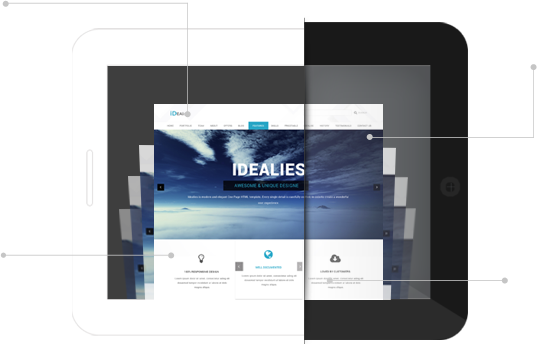
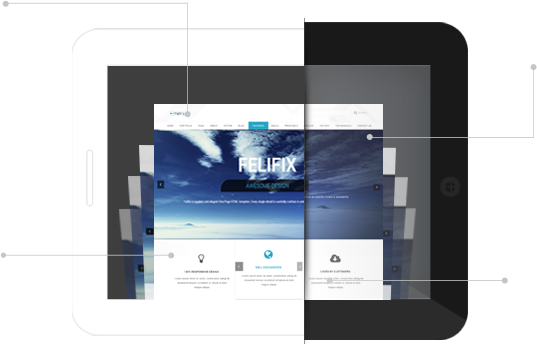
small changes in sliders

Changed region(s): [[0.2682, 0.3779, 0.5661, 0.6977], [0.298, 0.3198, 0.3575, 0.3488]]

diff --git a/index.html b/index.html
@@ -77,13 +77,13 @@
 				<li data-transition="incube" data-slotamount="7" data-masterspeed="500" >
 					<img src="./images/resource/slide2.jpg"  alt="slidebg2"  data-bgfit="cover" data-bgposition="left top" data-bgrepeat="no-repeat" />
 					<div class="tp-caption slide2-title customin" data-x="center" data-y="100" data-speed="900" data-start="1000" data-easing="Back.easeOut"  data-customin="x:0;y:0;z:0;rotationX:0;rotationY:-90;rotationZ:0;scaleX:0;scaleY:1;skewX:0;skewY:0;opacity:0;transformPerspective:200;transformOrigin:0% 50%;" data-captionhidden="on" style="font-size:100px;">FELIFIX</div>
-					<div class="tp-caption slide2-sub-title sfb" data-x="center" data-y="250" data-speed="900" data-start="1200" data-easing="Back.easeOut"  data-captionhidden="on" style="font-size:30px; padding: 10px 150px;">AWESOME DESIGN</div>
+					<div class="tp-caption slide2-sub-title sfb" data-x="center" data-y="250" data-speed="900" data-start="1200" data-easing="Back.easeOut"  data-captionhidden="on" style="font-size:30px; padding: 10px 150px;">LAUCHPAD FOR THE HIGH-FLIERS</div>
 					<div class="tp-caption slide2-desc sfb" data-x="center" data-y="350" data-speed="900" data-start="1600" data-easing="Back.easeOut"   data-captionhidden="on" style="font-size:16px;">Felifix is modern and elegant One-Page HTML template. Every single detail is carefully crafted, in orderto create a wonderful user experience.</div>
 				</li><!-- SLIDE 2  -->
 				<li data-transition="slotzoom-horizontal" data-slotamount="7" data-masterspeed="500" >
 					<img src="./images/resource/slide1.jpg"  alt="slidebg3"  data-bgfit="cover" data-bgposition="left top" data-bgrepeat="no-repeat" />
 					<div class="tp-caption slide3-title lfb" data-x="center" data-y="200" data-speed="900" data-start="1000" data-easing="Back.easeOut"  data-captionhidden="on" style="font-size:65px; padding:5px 30px;">WE ARE <span>Creative</span> WORKERS</div>
-					<div class="tp-caption slide3-desc lft" data-x="center" data-y="350" data-speed="900" data-start="1000" data-easing="Back.easeOut"  data-captionhidden="on" style="font-size:16px; padding:10px 30px;">Lorem ipsum dolor sit amet, consectetur adipiscing elit.</div>
+					<div class="tp-caption slide3-desc lft" data-x="center" data-y="350" data-speed="900" data-start="1000" data-easing="Back.easeOut"  data-captionhidden="on" style="font-size:16px; padding:10px 30px;">Creativty is contagious, we pass it on</div>
 				</li><!-- SLIDE 3  -->
 			</ul>
 		</div>
@@ -349,7 +349,7 @@
 									<div class="simple-text">
 										<div class="row">
 											<div class="col-md-4">
-												<img alt="" src="http://placehold.it/179x176" />
+												<img alt="" src="images/resource/era1.jpg" />
 											</div>
 											<div class="col-md-7">
 												<ul>
